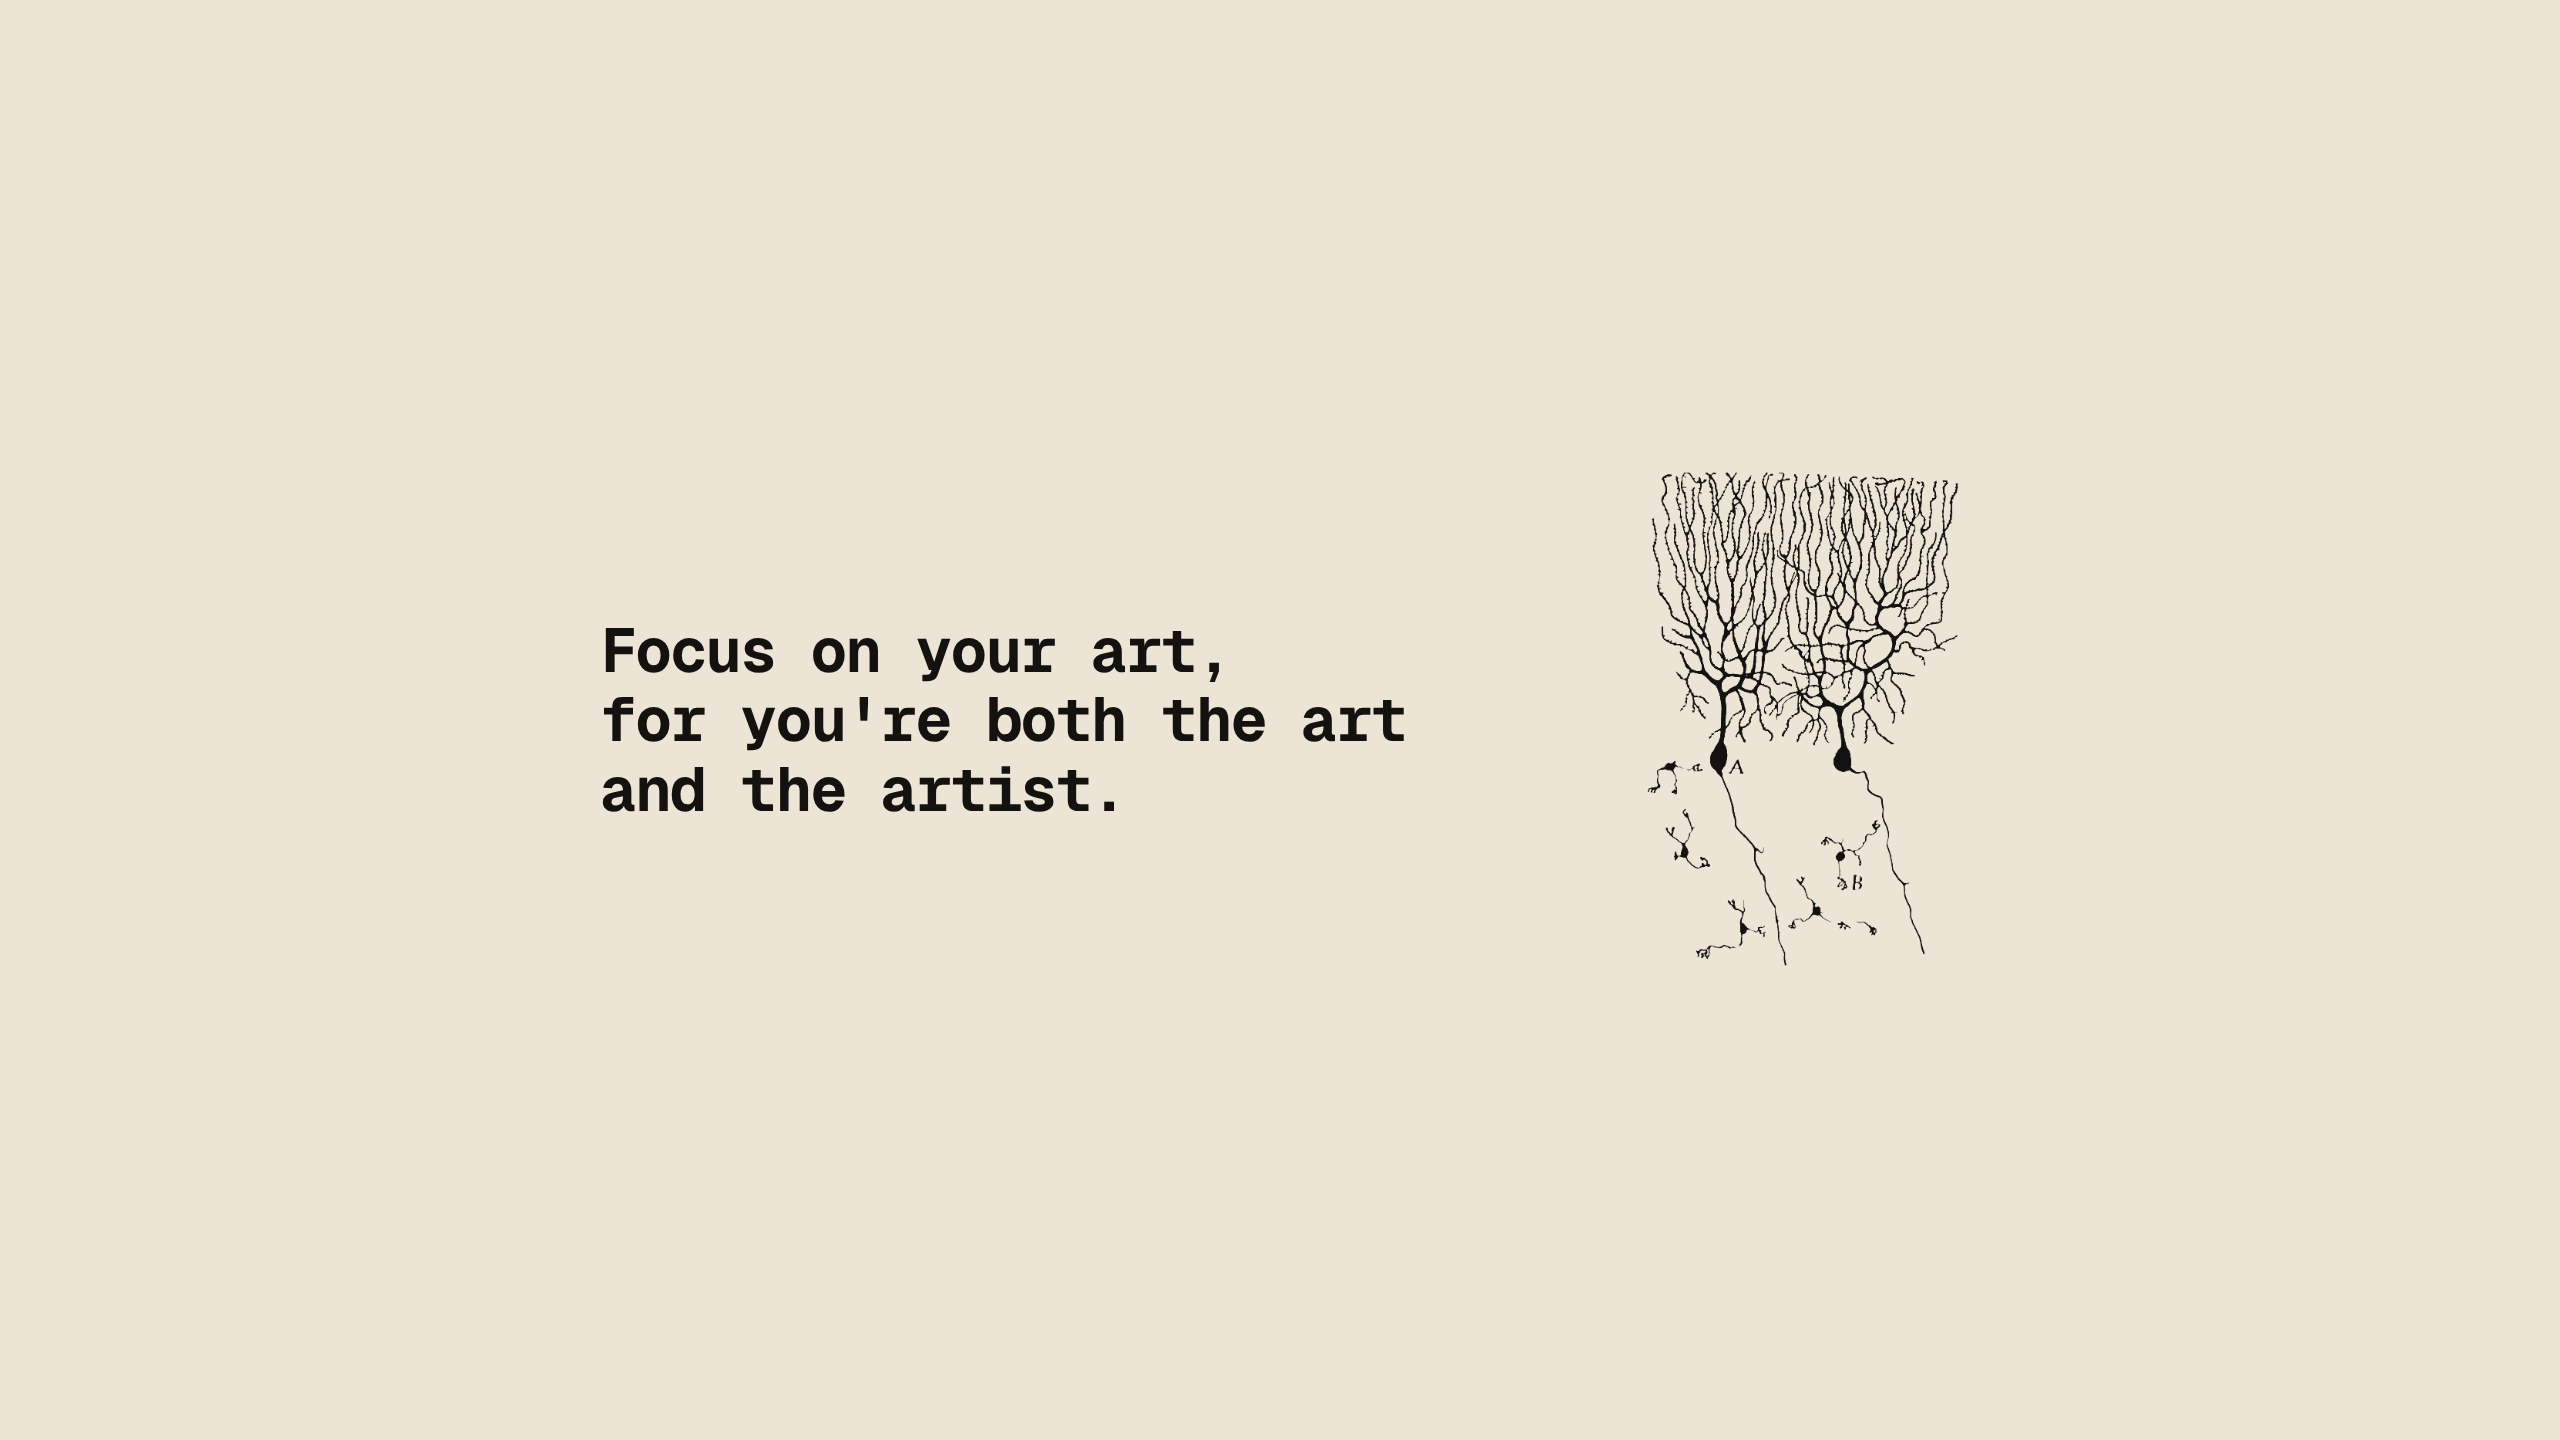
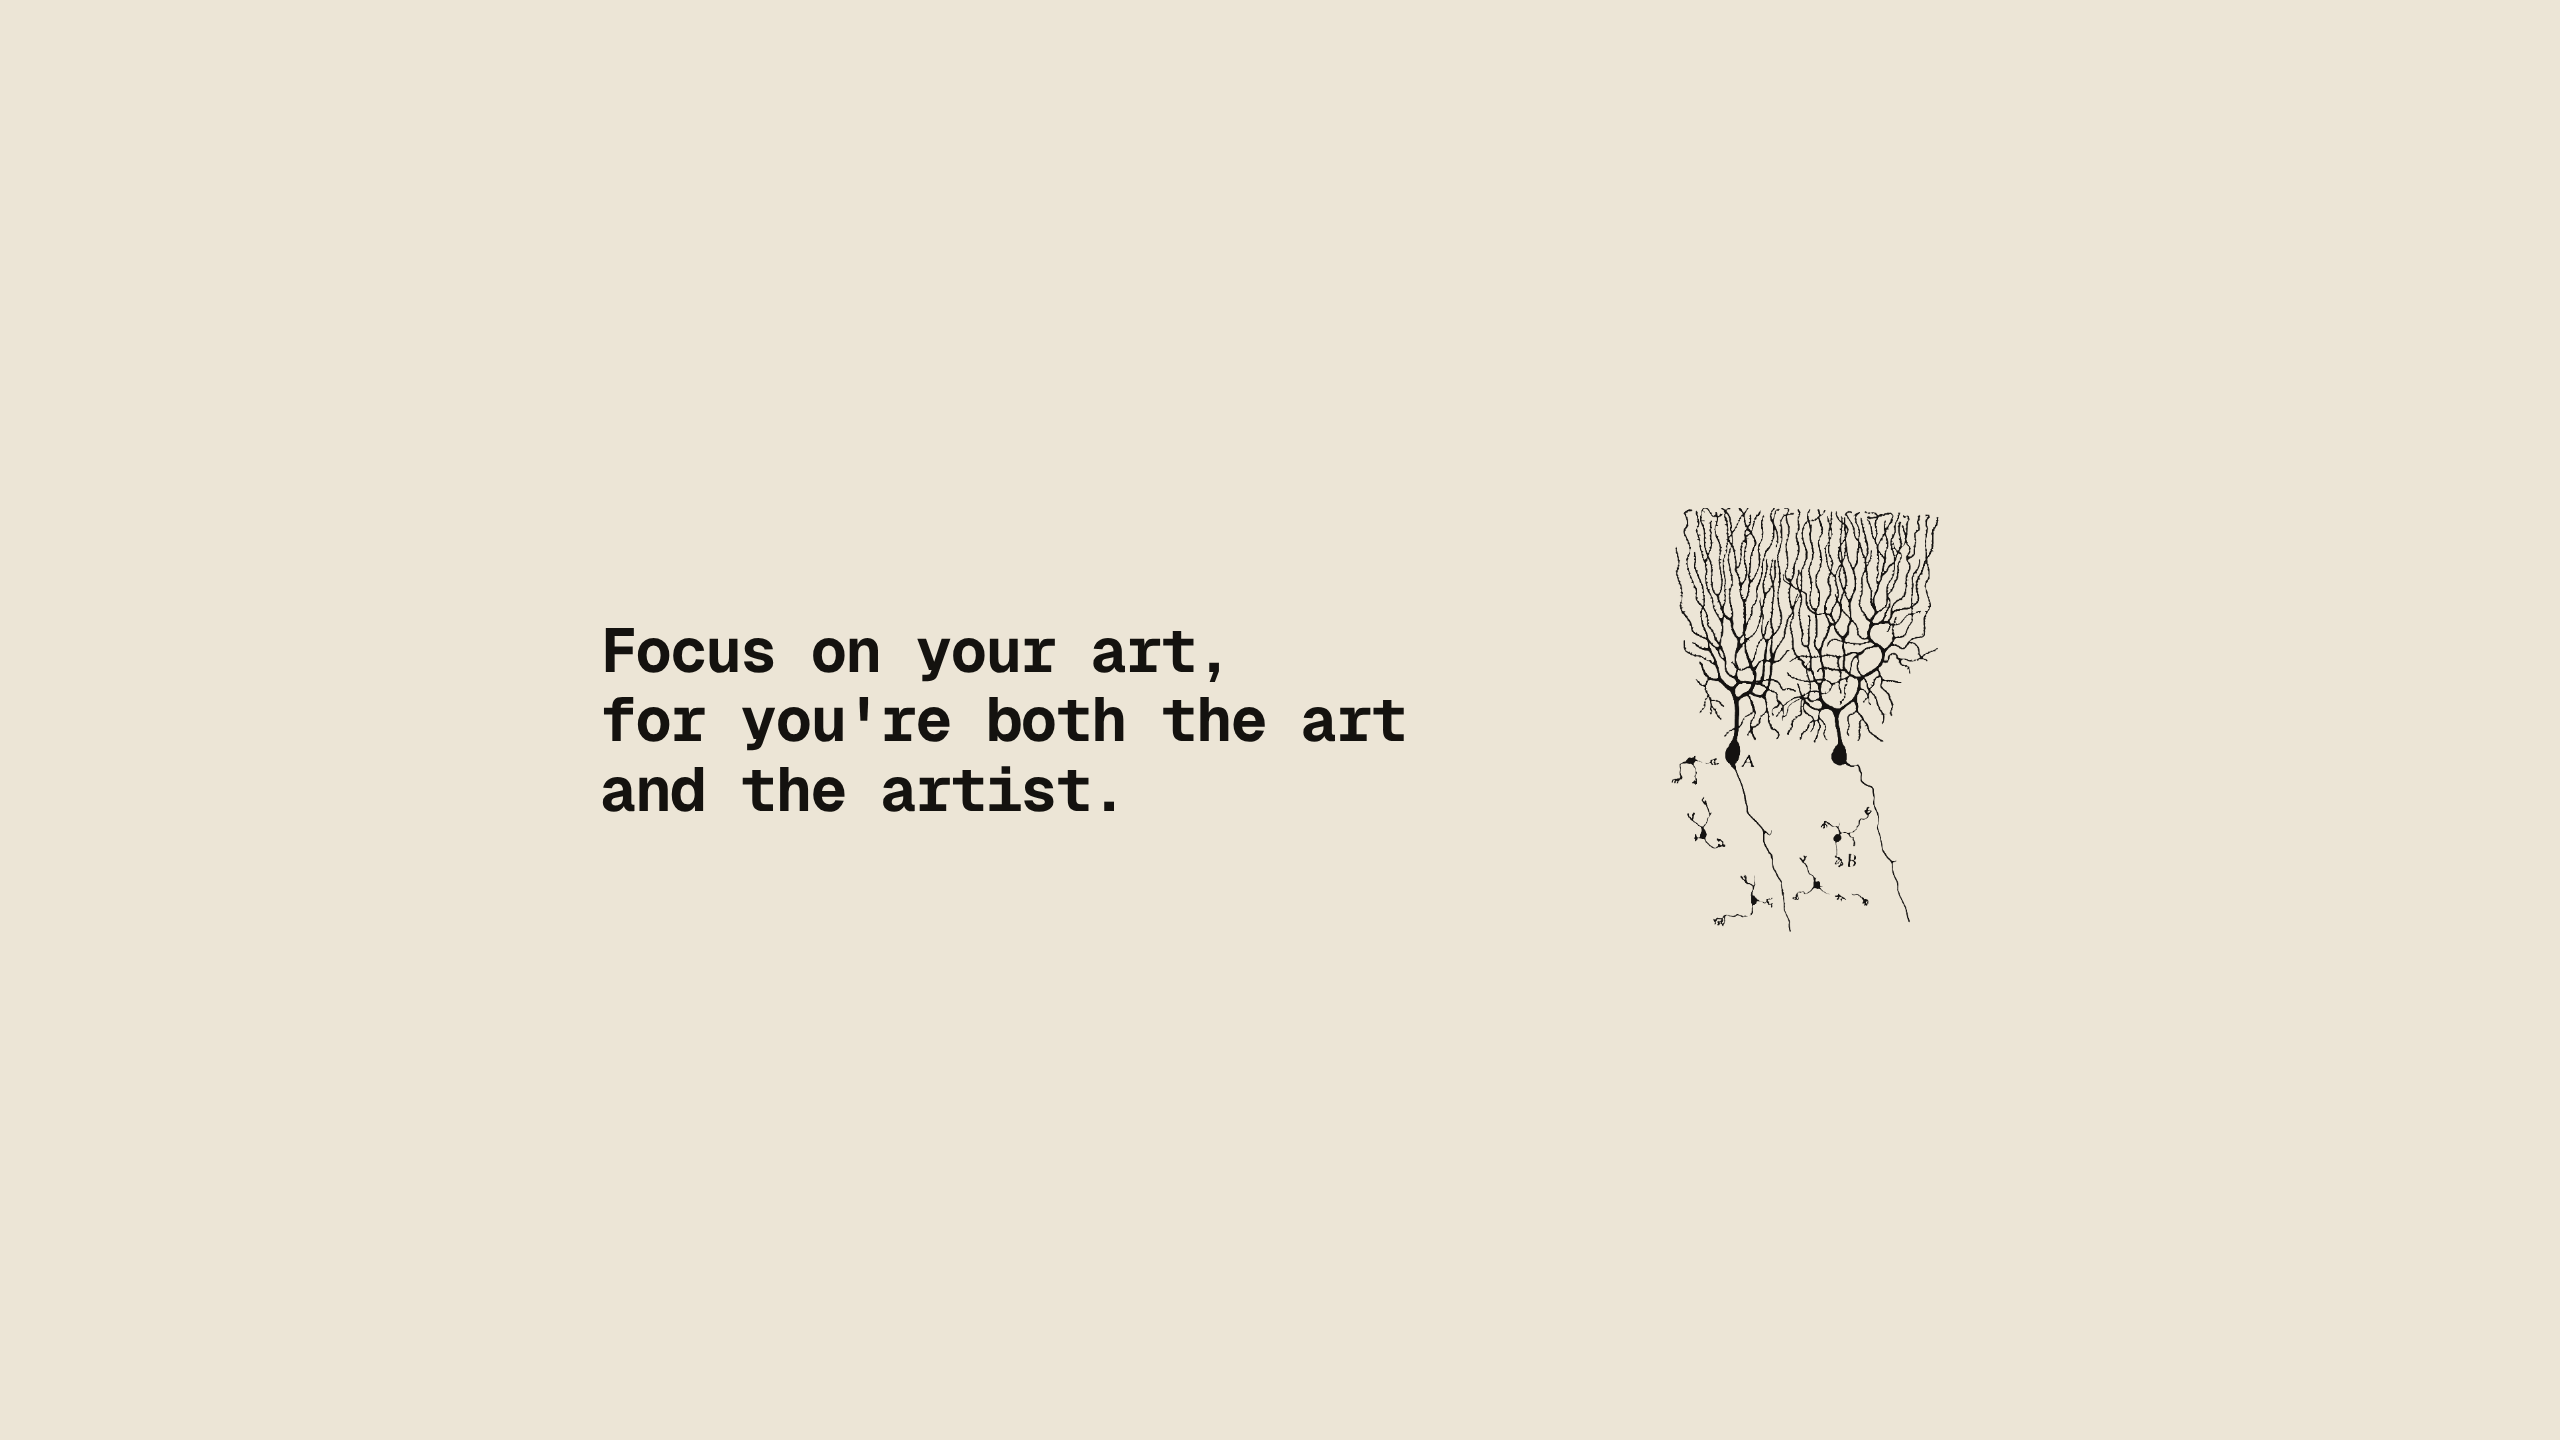
Branding: Cajal fits edge to edge exactly, no crop

Changed region(s): [[0.6562, 0.3125, 0.7812, 0.5938], [0.6562, 0.5625, 0.75, 0.6562]]

diff --git a/personal-branding/render.py b/personal-branding/render.py
@@ -98,9 +98,9 @@ def avatars():
 # YouTube 2560x1440; her cihazda görünen güvenli alan 1546x423, ortada (x 507-2053, y 508-931).
 FIGURES = {
     #          dosya                 X: yükseklik, x, y     YouTube: yükseklik, x, y
-    # Cajal runs edge to edge: it bleeds off the top and bottom of the X banner and of
-    # YouTube's visible strip (y 508-931).
-    "cajal": ("cajal-purkinje.webp", (600, 1060, -48), (500, 1640, 468)),
+    # Cajal runs exactly edge to edge: the drawing touches the top and bottom of the X
+    # banner and of YouTube's visible strip (y 508-931), without being cut.
+    "cajal": ("cajal-purkinje.webp", (508, 1092, -5), (430, 1665, 504)),
     "leonardo": ("leonardo-head.webp", (490, 1140, 6), (412, 1720, 514)),
 }
 
